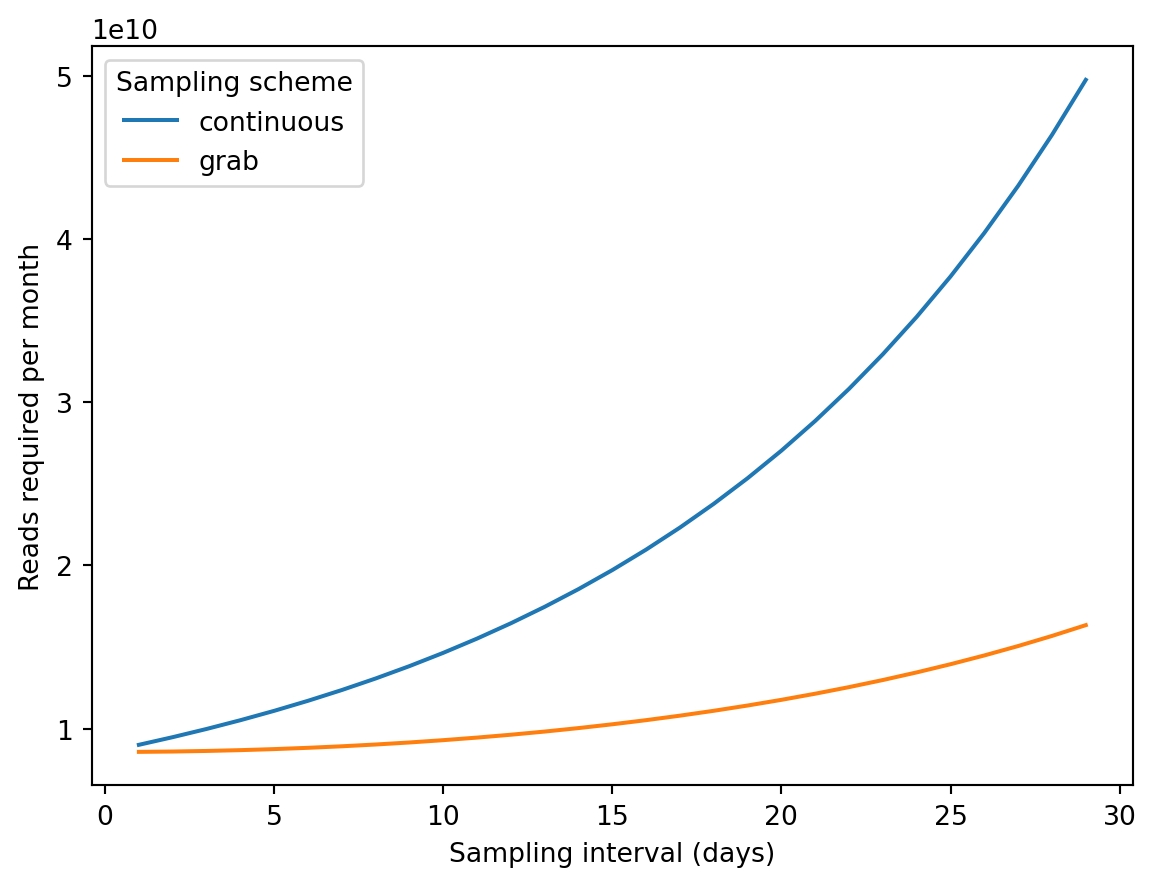
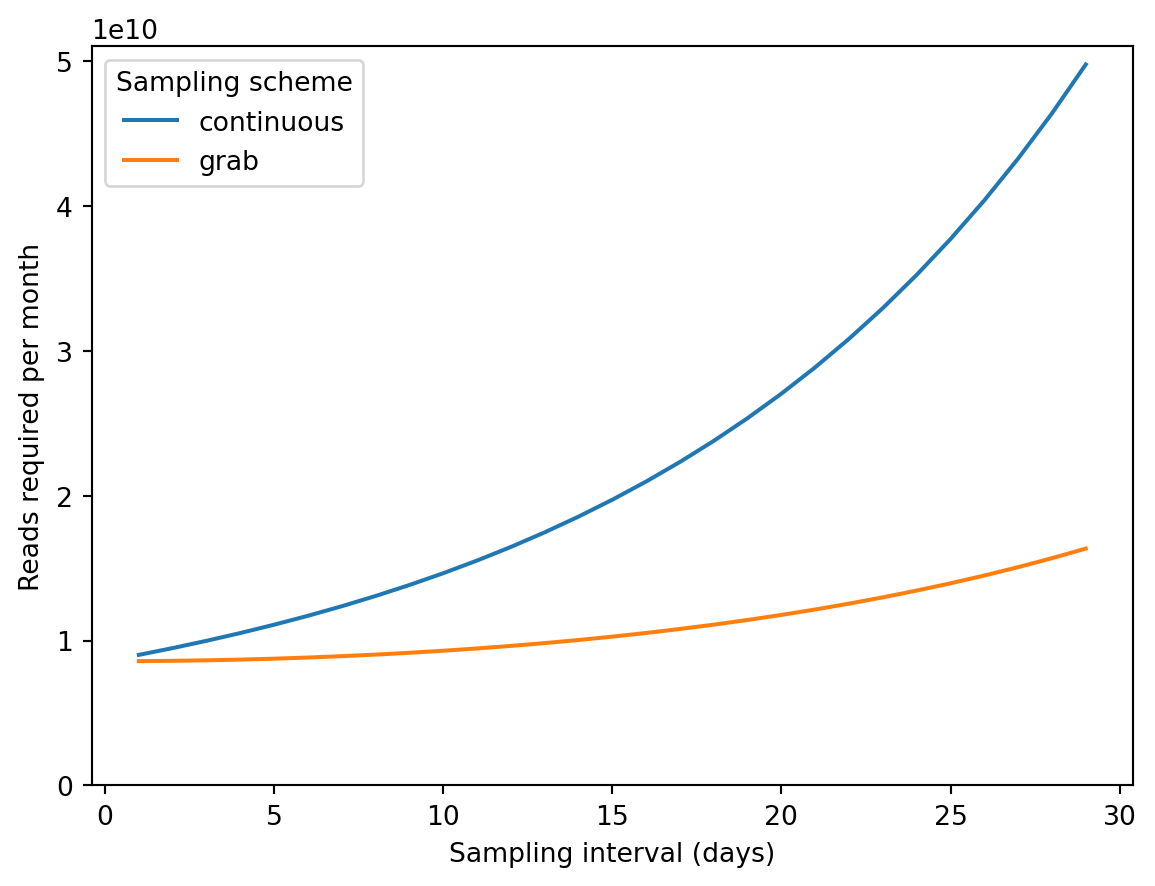
Clean up MVP

diff --git a/docs/notebooks/2024-02-02_CostEstimateMVP.html b/docs/notebooks/2024-02-02_CostEstimateMVP.html
@@ -186,7 +186,7 @@ pre > code.sourceCode > span > a:first-child::before { text-decoration: underlin
 <h2 class="anchored" data-anchor-id="epidemic-model">Epidemic model</h2>
 <section id="prevalence-and-incidence" class="level3">
 <h3 class="anchored" data-anchor-id="prevalence-and-incidence">Prevalence and incidence</h3>
-<p>Consider a population of <span class="math inline">\(N\)</span> individuals. We focus on the phase of the epidemic when it is growing exponentially. This will be approximately true at an intermediate time when the virus is common enough that we can neglect noise in reproduction, but rare enough that it is not running out of susceptible people to infect. Let the rate of new infections per interaction per unit time to be <span class="math inline">\(\alpha\)</span> and the rate of recovery of an infected person to be <span class="math inline">\(\beta\)</span>. Then, we have the following ODE for the prevalence <span class="math inline">\(P(t)\)</span>:</p>
+<p>Consider a population of <span class="math inline">\(N\)</span> individuals. We focus on the phase of the epidemic when it is growing exponentially. This will be approximately true at an intermediate time when the virus is common enough that we can neglect noise in reproduction, but rare enough that it is not running out of susceptible people to infect. Let the rate of new infections per infected persion per unit time be <span class="math inline">\(N \alpha\)</span> and the rate of recovery of an infected person to be <span class="math inline">\(\beta\)</span>. Then, we have the following ODE for the prevalence (the number of infected people, not the proportion of the population as in the P2RA report) <span class="math inline">\(P(t)\)</span>:</p>
 <p><span class="math display">\[
 \frac{dP}{dt} \approx \alpha N P - \beta P.
 \]</span></p>
@@ -220,7 +220,7 @@ C(t) &amp; \sim \frac{r + \beta}{r} P(t), \text{as } t \to \infty.
 </section>
 <section id="domain-of-validity" class="level3">
 <h3 class="anchored" data-anchor-id="domain-of-validity">Domain of validity</h3>
-<p>As described above, the approximation of deterministic exponential growth is valid when the number of infected individuals is large enough that the growth is roughly deteriminstic but small enough that most of the population is still susceptible. Here we’ll approximate those bounds.</p>
+<p>As described above, the approximation of deterministic exponential growth is valid when the number of infected individuals is large enough that the growth is roughly deterministic but small enough that most of the population is still susceptible. Here we’ll approximate those bounds.</p>
 <section id="deterministic-growth" class="level4">
 <h4 class="anchored" data-anchor-id="deterministic-growth">Deterministic growth</h4>
 <p>A simple stochastic model of the start of an epidemic is that infections and recoveries in a small increment of time <span class="math inline">\(dt\)</span> are independent of one another, that is: <span class="math display">\[
@@ -246,7 +246,7 @@ P \gg \frac{r + 2 \beta}{r^2 dt}.
 \]</span> It remains to choose a suitable increment of time. We expect the prevalence to change significantly (<span class="math inline">\(\mathbb{E}(\frac{dP}{P}) = 1\)</span>) on the timescale <span class="math inline">\(r^{-1}\)</span> so <span class="math inline">\(dt = r^{-1}\)</span> is a reasonable choice as long as <span class="math inline">\(r \gtrsim \beta\)</span>. This gives the condition <span class="math display">\[
 P \gg \frac{r + 2 \beta}{r} = 1 + 2 \beta / r.
 \]</span> When this condition is met, we expect the epidemic to grow approximately deterministically at rate <span class="math inline">\(r\)</span>.</p>
-<p>Note that this condition is violated at <span class="math inline">\(t = 0\)</span>. We must thus reinterpret <span class="math inline">\(t = 0\)</span> as the <em>effective</em> time that the epidemic would have infected a single person if our derterministic approximation for <span class="math inline">\(P \gg 1 + 2\beta/r\)</span> were extended backwards in time. [TODO: estimate the error in cumulative infections introduced by making this approximation.]</p>
+<p>Note that this condition is violated at <span class="math inline">\(t = 0\)</span>. We must thus reinterpret <span class="math inline">\(t = 0\)</span> as the <em>effective</em> time that the epidemic would have infected a single person if our deterministic approximation for <span class="math inline">\(P \gg 1 + 2\beta/r\)</span> were extended backwards in time. [TODO: estimate the error in cumulative infections introduced by making this approximation.]</p>
 </section>
 <section id="exponential-growth" class="level4">
 <h4 class="anchored" data-anchor-id="exponential-growth">Exponential growth</h4>
@@ -262,7 +262,7 @@ C(t) &amp; \ll N / 2.
 \]</span></p>
 <p>Using <span class="math inline">\(C = \frac{r + \beta}{r} P\)</span> in the exponential regime, we can put this together with our lower bound of the deterministic approximation to get the region of validity: <span class="math display">\[
 1 + 2\beta / r \ll P \ll \frac{N}{2 (1 + \beta / r)}.
-\]</span> This shows that as long as the population is large (<span class="math inline">\(N \gg 1\)</span>), and the growth rate is not too slow compared to the recovery rate (<span class="math inline">\(r \gtrsim \beta\)</span>), there will be a wide regime of approximately deterministic exponential growth.</p>
+\]</span> This shows that as long as the population is large (<span class="math inline">\(N \gg 1\)</span>), and the growth rate is not too slow compared to the recovery rate (<span class="math inline">\(r \gtrsim \beta\)</span>), there will be a wide range of <span class="math inline">\(P\)</span> for which growth is approximately deterministic and exponential.</p>
 </section>
 </section>
 </section>
@@ -275,11 +275,7 @@ K_i \equiv \sum_{j=0}^i k_j \geq \hat{K}.
 <p>We will assess the success of a method by the (population-scaled) cumulative incidence at the time of detection, accounting for the delay: <span class="math display">\[
 c(\hat{t} + t_d) \equiv C(\hat{t} + t_d) / N
 \]</span></p>
-<p>Because we’re interested in population-scale quantities and because we’ve shown that our model is not accurate when there are only a few individuals, we will make two assumptions:</p>
-<ul>
-<li>The prevalence at detection <span class="math inline">\(P(t) = e^{rt} \sim N\)</span>, as <span class="math inline">\(N \to \infty\)</span>.</li>
-<li>We can neglect any smaller terms that do not scale with <span class="math inline">\(N\)</span>.</li>
-</ul>
+<p>We’re interested in taking samples from a large population (<span class="math inline">\(N \gg 1\)</span>). In such a population, our ability to detect will depend not on the the raw number of people infected <span class="math inline">\(P\)</span>, but on the proportion <span class="math inline">\(p \equiv P / N\)</span>. At detection, <span class="math inline">\(p\)</span> will be at some typical magnitude that depends on our sensitivity but does not depend on <span class="math inline">\(N\)</span>. We can simplify our equations by neglecting terms that are <span class="math inline">\(\mathcal{O}(N^{-1})\)</span> while keeping terms of order <span class="math inline">\(p = e^{r t} / N\)</span>. This is valid because we’ve already assumed that <span class="math inline">\(e^{r t} \gg 1\)</span> so the latter are always larger than the former.</p>
 <p>Using the equations above for cumulative incidence, we have the following simplification: <span class="math display">\[
 \begin{align}
 c(t) &amp; = \frac{1 + \frac{r + \beta}{r}\left(e^{rt} - 1\right)}{N} \\
@@ -302,7 +298,7 @@ c(\hat{t} + t_d) = \frac{r + \beta}{r} \frac{e^{r\hat{t}}}{N} e^{r t_d}.
 a_i = b \int \frac{P(t)}{N} \rho_i(t) dt.
 \]</span> Here, <span class="math inline">\(\rho_i\)</span> is a density that says how much of sample <span class="math inline">\(i\)</span> was collected at different times, and <span class="math inline">\(b\)</span> is a fixed conversion factor between prevalence and relative abundance. (Note <span class="math inline">\(b = RA_p(1)\)</span> in the P2RA manuscript.)</li>
 </ol>
-<p>From here on, it will simplify thing to specify two concrete sampling schemes. Both schemes collect evenly-spaced samples with the same depth:</p>
+<p>From here on, it will simplify things to specify two concrete sampling schemes. Both schemes collect evenly-spaced samples with the same depth:</p>
 <ul>
 <li><span class="math inline">\(n_i = n\)</span></li>
 <li><span class="math inline">\(t_i - t_{i-1} = \delta t\)</span></li>
@@ -311,8 +307,9 @@ a_i = b \int \frac{P(t)}{N} \rho_i(t) dt.
 <p>Our two schemes differ in when the material for the samples is collected. They are:</p>
 <ol type="1">
 <li>Continuous sampling: <span class="math inline">\(\rho_i(t) = \frac{1}{\delta t}\)</span> for <span class="math inline">\(t \in [t_{i-1}, t_i)\)</span>.</li>
-<li>Grab sampling: <span class="math inline">\(\rho_i(t) = \delta(t - t_i)\)</span>, i.e., the whole sample is collected at <span class="math inline">\(t_i\)</span>.</li>
+<li>Grab sampling: <span class="math inline">\(\rho_i(t) = \delta(t - t_i)\)</span>, i.e., the whole sample is collected at <span class="math inline">\(t_i\)</span>. (Here, <span class="math inline">\(\delta(t)\)</span> is the Dirac delta function.)</li>
 </ol>
+<p>In the <a href="./2024-02-08_OptimalSamplingInterval.html#windowed-composite-sampling">next notebook</a>, we consider a third, intermediate scheme: windowed composite sampling. In this scheme, material is collected continuously for a fixed window, usually 24 hours. (In practice, it is not sampled continuously but at regular intervals over the window.) Derivation of this case is a straightforward extension of the cases considered here, using <span class="math inline">\(\rho_i(t) = w^{-1}\)</span> for <span class="math inline">\(t \in [t_i - w, t_i)\)</span> with window length <span class="math inline">\(w\)</span>. For short windows (<span class="math inline">\(w \to 0\)</span>), this case approaches grab sampling. For <span class="math inline">\(w \to \delta t\)</span> it approaches composite sampling.</p>
 </section>
 <section id="continuous-sampling" class="level3">
 <h3 class="anchored" data-anchor-id="continuous-sampling">Continuous sampling</h3>
@@ -335,7 +332,7 @@ K_i &amp; = \frac{nb}{\delta t} (r + \beta) \int_{0}^{t_i} \frac{I(t)}{N} dt \\
 K_i &amp; = \frac{nb}{\delta t}
 \end{align}
 \]</span></p>
-<p>One complication is that the sample <span class="math inline">\(i\)</span> that <span class="math inline">\(K_i \geq \hat{K}\)</span> depends on the precise timing of our samples. In the figure below, the three colored series show <span class="math inline">\(K_i\)</span> for three series of samples that differ only by the relative timing of their sample collection (e.g., all samples are collected weekly, but one series collects on Mondays, another on Tuesdays, etc.) Note that the red figure, whose first sample was taken latest relative to the start of the pandemic, crosses the threshold (solid black line) one sample earlier than the others.</p>
+<p>One somewhat subtle complication comes from the fact that we don’t know how the start of the epidemic lines up with our sampling schedule. For example, if we sample weekly, the detection time will depend on which day of the week exponential growth effectively starts (<span class="math inline">\(t=0\)</span> in the model). When delay between the start of the epidemic and the first sample (<span class="math inline">\(t_0\)</span>) is larger, we may eventually detect the virus one sample earlier than when the delay is smaller. In the figure below, the three colored series show <span class="math inline">\(K_i\)</span> for three series of samples that differ only by the relative timing of their sample collection (e.g., all samples are collected weekly, but one series collects on Mondays, another on Tuesdays, etc.) Note that the red figure, whose first sample was taken latest relative to the start of the pandemic, crosses the threshold (solid black line) one sample earlier than the others.</p>
 <div class="cell" data-execution_count="1">
 <details>
 <summary>Code</summary>
@@ -366,7 +363,7 @@ K_i &amp; = \frac{nb}{\delta t}
 <p>We account for this effect by splitting <span class="math inline">\(\hat{t}\)</span> into two components:</p>
 <ol type="1">
 <li>The earliest time possible to detect, <span class="math inline">\(t^{\star}\)</span>, found by allowing <span class="math inline">\(K\)</span> to vary continously in time (dotted line above)</li>
-<li>The residual time waiting for the next sample to be collected. Because we have no reason to expect this waiting time to take any particular value, we average it over a uniform distribution.</li>
+<li>The residual time waiting for the next sample to be collected. This waiting time depends on the arbitrary start time of the epidemic within our sampling cycle so we have reason to expect it to take any particular value. Thus, we average it over a uniform distribution.</li>
 </ol>
 <p>First, we will find an implicit equation for <span class="math inline">\(t^{\star}\)</span>: <span class="math display">\[
 \begin{align}
@@ -386,13 +383,20 @@ K_i &amp; = \frac{nb}{\delta t}
             e^{r t_d}
             + \mathcal{O}(N^{-1}) \\
 \end{align}
-\]</span> The the third term in parentheses is the cost incurred from having widely spaced samples. As <span class="math inline">\(r \delta t \to 0\)</span>, this cost goes to zero. When <span class="math inline">\(r \delta t\)</span> is large, this cost grows exponentially.</p>
-<p>Finally, we notice that the second term in parentheses appears in our implicit equation for <span class="math inline">\(t^{\star}\)</span> above. Substituting and rearranging gives the sequencing effort required to detect by cumulative incidence <span class="math inline">\(\hat{c}\)</span>: <span class="math display">\[
+\]</span></p>
+<p>This result has three components:</p>
+<ol type="1">
+<li>The first two terms are the cumulative incidence at <span class="math inline">\(t^{\star}\)</span>, the earliest possible detection time.</li>
+<li>The third term in parentheses is the cost incurred from having widely spaced samples. As <span class="math inline">\(r \delta t \to 0\)</span>, this cost goes to zero. When <span class="math inline">\(r \delta t\)</span> is large, this cost grows exponentially.</li>
+<li>The final term is the multiplier from the delay between sample collection and analysis.</li>
+</ol>
+<p>Finally, we notice that the second term in parentheses appears in our implicit equation for <span class="math inline">\(t^{\star}\)</span> above. Substituting and rearranging gives the sequencing effort (reads per unit time, <span class="math inline">\(n / \delta t\)</span>) required to detect by cumulative incidence <span class="math inline">\(\hat{c}\)</span>: <span class="math display">\[
 \frac{n}{\delta t} = (r + \beta) \left(\frac{\hat{K}}{b \hat{c}} \right)
     \left(\frac{e^{r \delta t} - 1}{r \delta t}\right)
     e^{r t_d}
     + \mathcal{O}(N^{-1})
-\]</span> Some observations:</p>
+\]</span></p>
+<p>Some observations:</p>
 <ol type="1">
 <li>Faster-growing and faster-recovering viruses require more sequencing because the current prevalence is a smaller fraction of the cumulative incidence.</li>
 <li>Higher detection thresholds, lower P2RA factors (<span class="math inline">\(b\)</span>), and lower target cumulative incidence, require more sequencing.</li>
@@ -417,6 +421,11 @@ K_i &amp; = n \sum_{j=0}^{i} b \frac{P(t_i)}{N} \\
             + \mathcal{O}(N^{-1}).
 \]</span> The first two terms are identical to the continuous sampling case. The third term is the effect of grab sampling: because the sample is collected entirely at the end of the interval, the prevalence is higher than the average over the interval and you get more reads.</p>
 <p>Using this equation for <span class="math inline">\(t^{\star}\)</span>, we find that the required sequencing effort for grab sampling is: <span class="math display">\[
+\hat{c} = (r + \beta)
+            \left(\frac{e^{r t^{\star}}}{r N} \right)
+            \left(\frac{e^{r \delta t} - 1}{r \delta t}\right)
+            e^{r t_d}
+\]</span> <span class="math display">\[
 \frac{n}{\delta t} = (r + \beta) \left(\frac{\hat{K}}{b \hat{c}} \right)
     \left(\frac
         {e^{-r\delta t} {\left(e^{r \delta t} - 1\right)}^2}
@@ -440,6 +449,10 @@ K_i &amp; = n \sum_{j=0}^{i} b \frac{P(t_i)}{N} \\
 <p><img src="2024-02-02_CostEstimateMVP_files/figure-html/cell-3-output-1.png" width="589" height="451"></p>
 </div>
 </div>
+<p>We can also see the difference between the cases by comparing the Taylor series of the sampling interval delay term: <span class="math display">\[\begin{align}
+f_{\text{cont.}}(r \delta t) &amp; \equiv \frac{e^{r \delta t} - 1}{r \delta t} = 1 + \frac{r \delta t}{2} + \frac{{(r \delta t)}^2}{6} \\
+f_{\text{grab}}(r \delta t) &amp; \equiv \frac{e^{- r \delta t}{(e^{r \delta t} - 1)}^2}{r \delta t} = 1 + \frac{{(r \delta t)}^2}{12} \\
+\end{align}\]</span></p>
 </section>
 </section>
 <section id="numerical-example" class="level2">
@@ -495,9 +508,10 @@ K_i &amp; = n \sum_{j=0}^{i} b \frac{P(t_i)}{N} \\
 <span id="cb4-12"><a href="#cb4-12" aria-hidden="true" tabindex="-1"></a>n_grab <span class="op">=</span> depth_required(r, beta, k_hat, b, c_hat, delta_t, <span class="st">"grab"</span>, t_d)</span>
 <span id="cb4-13"><a href="#cb4-13" aria-hidden="true" tabindex="-1"></a>plt.plot(delta_t, <span class="dv">30</span> <span class="op">*</span> n_cont, label<span class="op">=</span><span class="st">"continuous"</span>)</span>
 <span id="cb4-14"><a href="#cb4-14" aria-hidden="true" tabindex="-1"></a>plt.plot(delta_t, <span class="dv">30</span> <span class="op">*</span> n_grab, label<span class="op">=</span><span class="st">"grab"</span>)</span>
-<span id="cb4-15"><a href="#cb4-15" aria-hidden="true" tabindex="-1"></a>plt.legend(title<span class="op">=</span><span class="st">"Sampling scheme"</span>)</span>
-<span id="cb4-16"><a href="#cb4-16" aria-hidden="true" tabindex="-1"></a>plt.ylabel(<span class="st">"Reads required per month"</span>)</span>
-<span id="cb4-17"><a href="#cb4-17" aria-hidden="true" tabindex="-1"></a>plt.xlabel(<span class="st">"Sampling interval (days)"</span>)</span></code><button title="Copy to Clipboard" class="code-copy-button"><i class="bi"></i></button></pre></div>
+<span id="cb4-15"><a href="#cb4-15" aria-hidden="true" tabindex="-1"></a>plt.ylim([<span class="dv">0</span>, <span class="fl">5.1e10</span>])</span>
+<span id="cb4-16"><a href="#cb4-16" aria-hidden="true" tabindex="-1"></a>plt.legend(title<span class="op">=</span><span class="st">"Sampling scheme"</span>)</span>
+<span id="cb4-17"><a href="#cb4-17" aria-hidden="true" tabindex="-1"></a>plt.ylabel(<span class="st">"Reads required per month"</span>)</span>
+<span id="cb4-18"><a href="#cb4-18" aria-hidden="true" tabindex="-1"></a>plt.xlabel(<span class="st">"Sampling interval (days)"</span>)</span></code><button title="Copy to Clipboard" class="code-copy-button"><i class="bi"></i></button></pre></div>
 <div class="cell-output cell-output-display">
 <p><img src="2024-02-02_CostEstimateMVP_files/figure-html/cell-5-output-1.png" width="578" height="443"></p>
 </div>

diff --git a/docs/index.html b/docs/index.html
@@ -201,7 +201,7 @@ Dan Rice
 </a>
 </div>
 </div>
-<div class="quarto-post image-right" data-index="2" data-listing-date-sort="1706850000000" data-listing-file-modified-sort="1707342751635" data-listing-date-modified-sort="NaN" data-listing-reading-time-sort="15">
+<div class="quarto-post image-right" data-index="2" data-listing-date-sort="1706850000000" data-listing-file-modified-sort="1711749443721" data-listing-date-modified-sort="NaN" data-listing-reading-time-sort="17">
 <div class="thumbnail">
 <p><a href="./notebooks/2024-02-02_CostEstimateMVP.html"> <p class="card-img-top"><img src="notebooks/2024-02-02_CostEstimateMVP_files/figure-html/cell-2-output-1.png"  class="thumbnail-image card-img"/></p> </a></p>
 </div>
